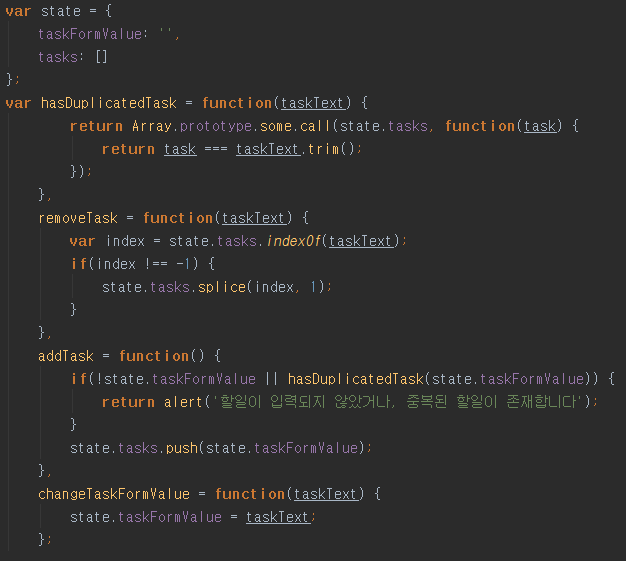
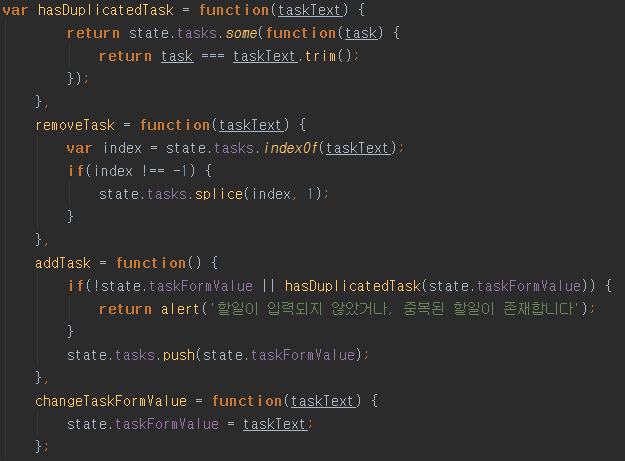
121212

diff --git a/pt/react/example2.html b/pt/react/example2.html
@@ -28,13 +28,13 @@
     (function($) { 'use strict';
         var app = $('.todo-app'),
             listEl = app.find('.task-list'),
-            template = $('#task-template');
+            template = $('#task-template').html().trim();
         var state = {
             taskFormValue: '',
             tasks: []
         };
         var hasDuplicatedTask = function(taskText) {
-                return Array.prototype.some.call(state.tasks, function(task) {
+                return state.tasks.some(function(task) {
                     return task === taskText.trim();
                 });
             },
@@ -56,7 +56,7 @@
 
         var updateUI = function() {
                 var taskEls = state.tasks.map(function(taskText) {
-                    var taskEl = $(template.html());
+                    var taskEl = $(template);
                     taskEl.find('.task-text').html(taskText);
                     return taskEl;
                 });

diff --git a/pt/react/index.html b/pt/react/index.html
@@ -240,12 +240,13 @@ var state = {
 
                 <section>
                     <p>전체소스#1</p>
-                    <img src="img/ui-code.png">
+                    <img src="img/state.png">
+
                 </section>
 
                 <section>
                     <p>전체소스#2</p>
-                    <img src="img/state.png">
+                    <img src="img/ui-code.png">
                 </section>
 
                 <section>
